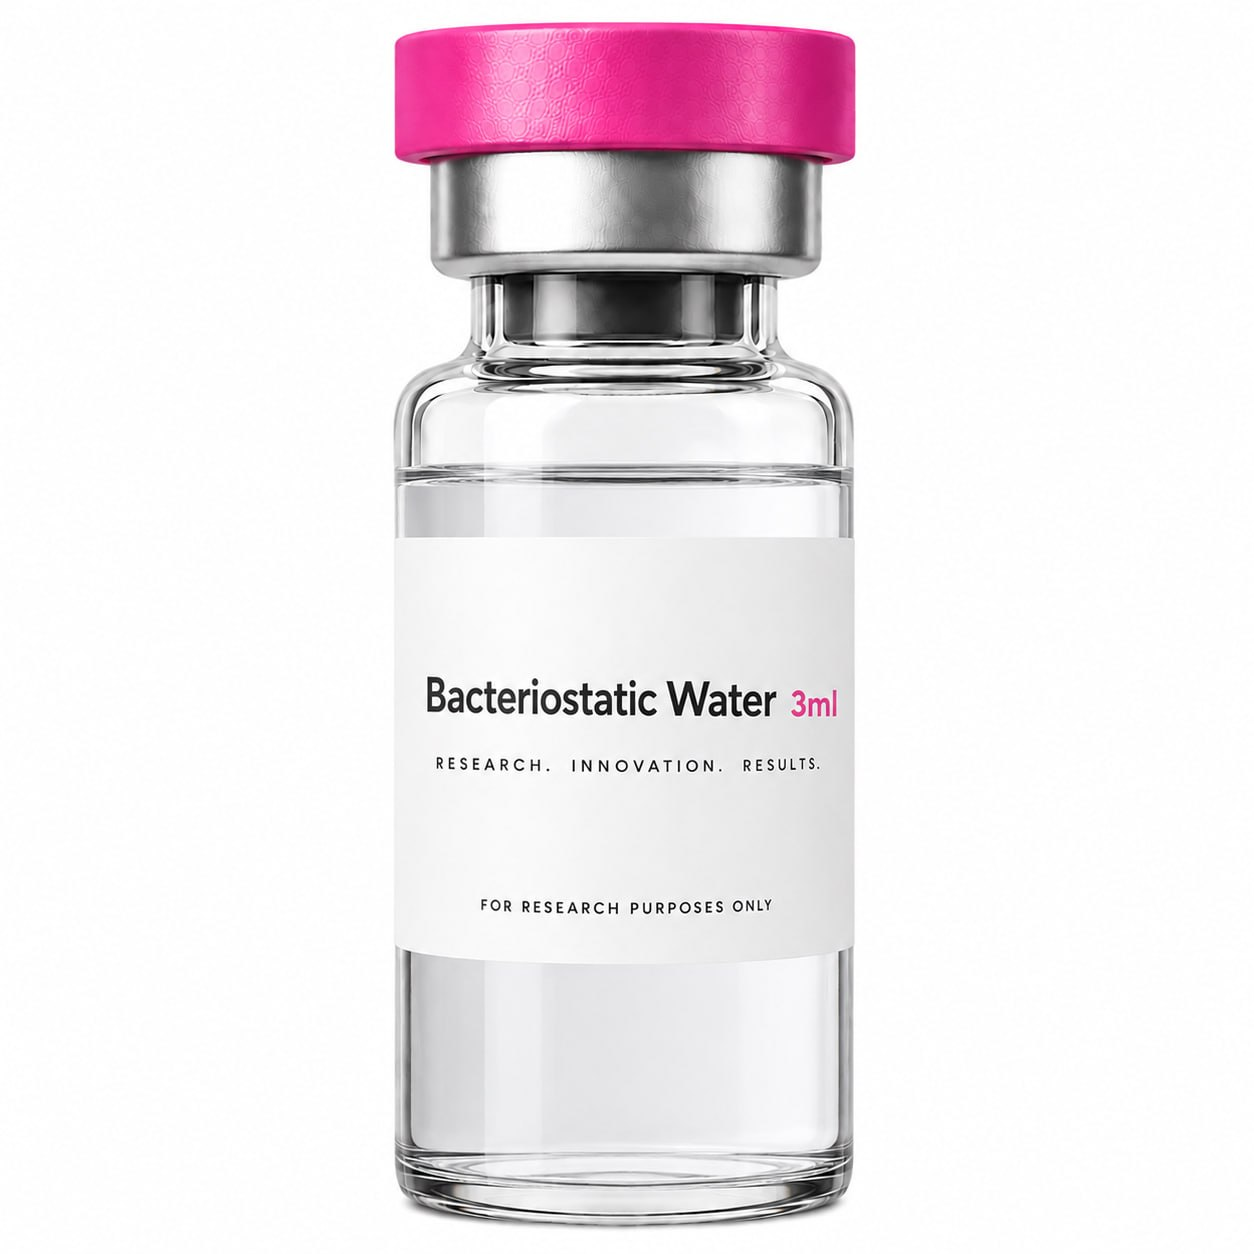
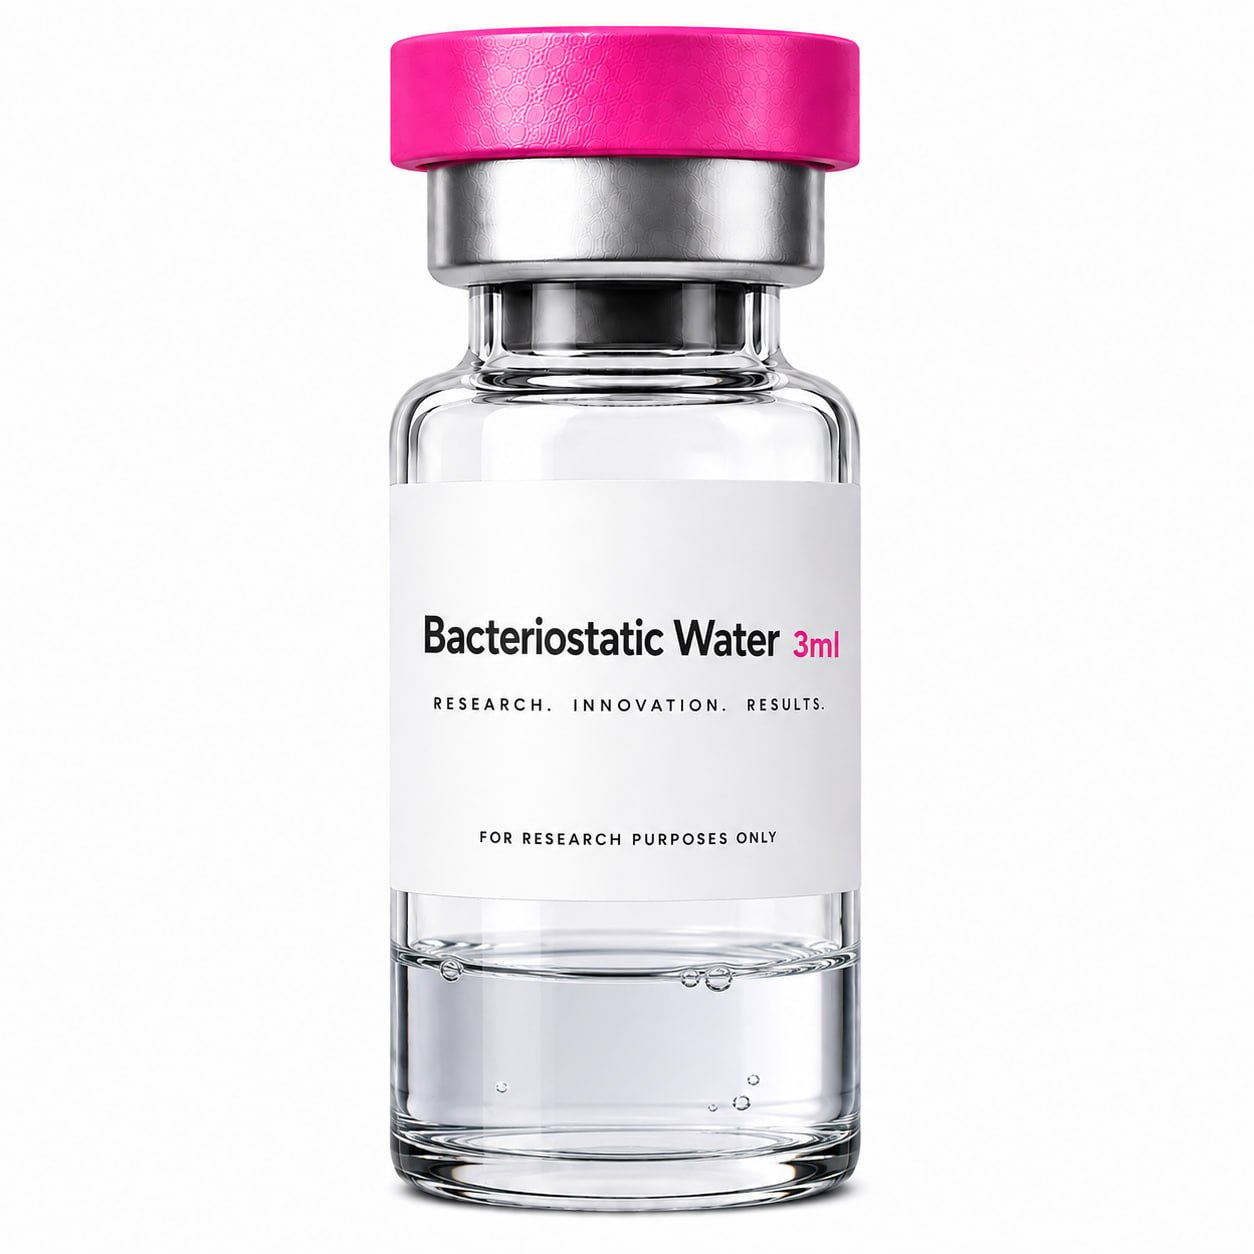
Add BAC Water 10mL image, show product images in You May Also Like suggestions

diff --git a/script.js b/script.js
@@ -70,7 +70,7 @@ const PRODUCTS = {
     variants: null,
   },
   'bac-water': {
-    name: 'BAC Water 10mL', price: 200, origPrice: null, emoji: '💧',
+    name: 'BAC Water 10mL', price: 200, origPrice: null, emoji: '💧', image: 'images/bacwater10ml.jpg',
     tag: null, tagClass: '', cat: 'Other',
     desc: 'Pharmaceutical-grade 0.9% benzyl alcohol water for injection. Required for reconstituting all lyophilized peptides. Preserves solution for up to 4 weeks refrigerated.',
     variants: null,
@@ -388,8 +388,11 @@ function renderAlsoLike(currentId) {
     const p   = PRODUCTS[id];
     const div = document.createElement('div');
     div.className = 'pmodal-also-card';
+    const thumb = p.image
+      ? `<div class="pmodal-also-thumb"><img src="${p.image}" alt="${p.name}" class="pmodal-also-img"></div>`
+      : `<div class="pmodal-also-thumb">${p.emoji}</div>`;
     div.innerHTML = `
-      <div class="pmodal-also-thumb">${p.emoji}</div>
+      ${thumb}
       <p class="pmodal-also-name">${p.name}</p>
       <p class="pmodal-also-price">₱${p.price.toLocaleString('en-PH')}</p>
     `;

diff --git a/style.css b/style.css
@@ -1560,13 +1560,15 @@ footer {
   background: var(--pink-pale);
   border: 1.5px solid var(--pink-border);
   border-radius: 10px;
-  padding: 10px 6px 8px;
+  padding: 6px 6px 8px;
   text-align: center;
   cursor: pointer;
   transition: var(--transition);
+  overflow: hidden;
 }
 .pmodal-also-card:hover  { border-color: var(--pink-dark); background: var(--pink-light); transform: translateY(-2px); }
-.pmodal-also-thumb       { font-size: 1.6rem; margin-bottom: 5px; }
+.pmodal-also-thumb       { font-size: 1.6rem; margin-bottom: 5px; line-height: 1; }
+.pmodal-also-img         { width: 100%; aspect-ratio: 1/1; object-fit: cover; border-radius: 8px; display: block; margin-bottom: 5px; }
 .pmodal-also-name {
   font-size: 0.65rem;
   font-weight: 600;

diff --git a/index.html b/index.html
@@ -319,8 +319,8 @@
 
     <div class="pgrid-item" data-cat="Other">
       <div class="pcard" data-id="bac-water">
-        <div class="pcard-img" style="background: linear-gradient(135deg,#fce7f3,#f9a8d4);" onclick="openModal('bac-water')">
-          <span class="pcard-emoji">💧</span>
+        <div class="pcard-img" onclick="openModal('bac-water')">
+          <img src="images/bacwater10ml.jpg" alt="BAC Water 10mL" class="pcard-photo">
         </div>
         <div class="pcard-body">
           <p class="pcard-cat">Add-ons</p>
